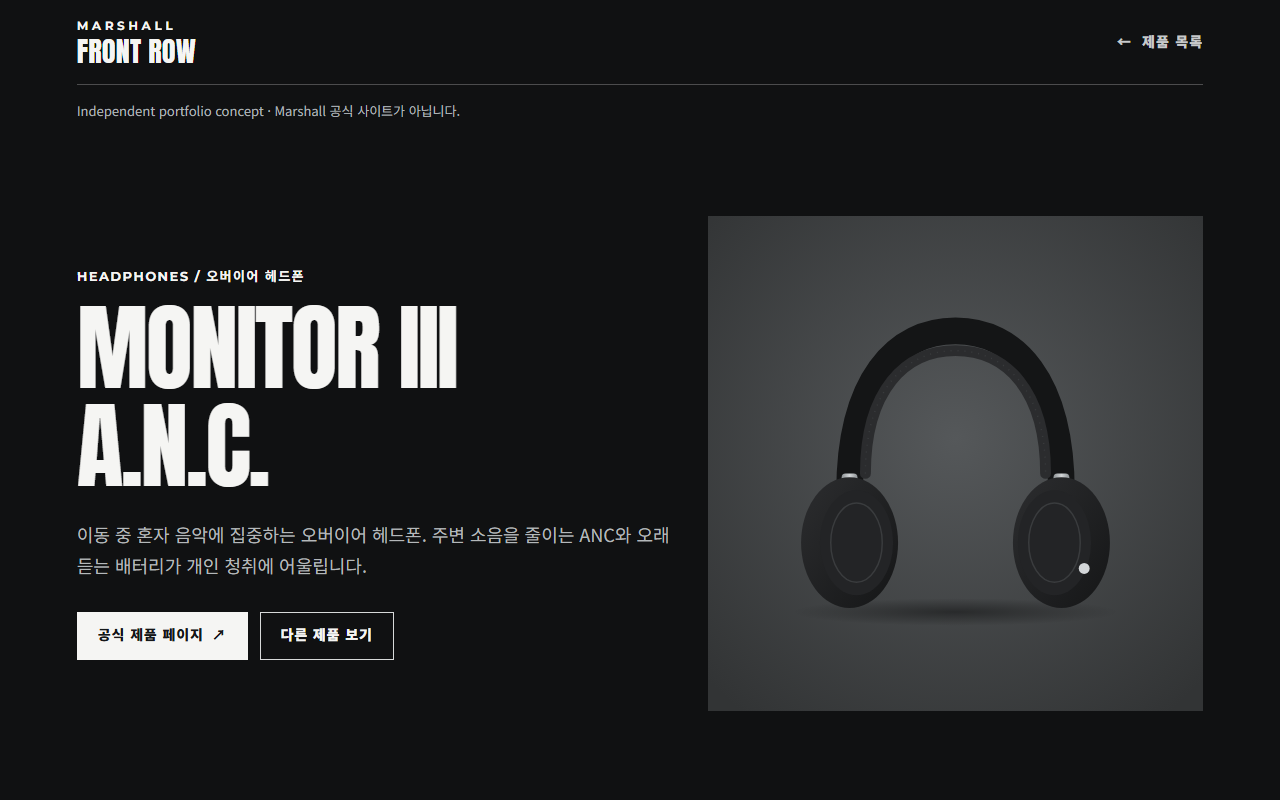
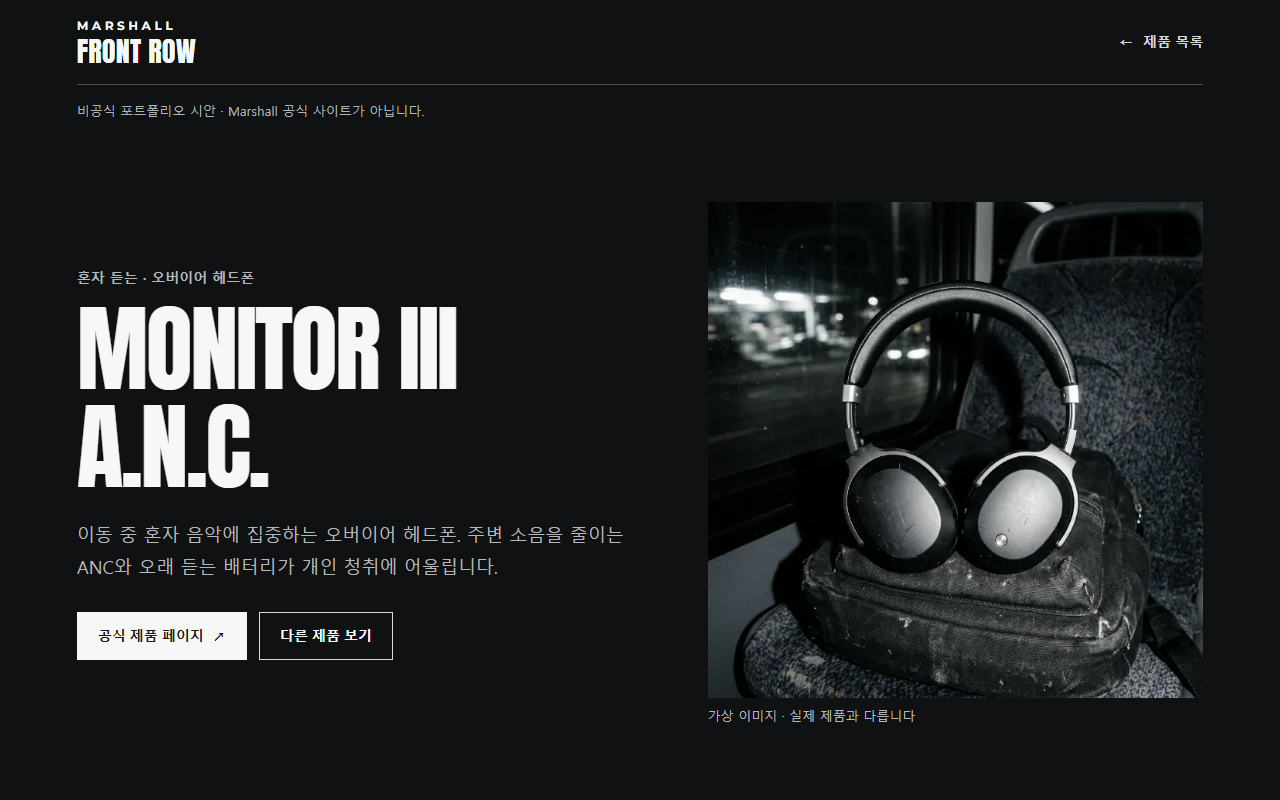
docs: retake the README screenshots after the redesign
The gear and detail screenshots still showed the light band and the old
drawings. All four are retaken from the live site at the same sizes, and
the alt text now describes the virtual photos.

diff --git a/README.md b/README.md
@@ -21,8 +21,8 @@ AI 코딩 도구 Claude Code와 함께 만들었습니다. 방향(Live Signal La
 | Case Study | 디자인 결정, 이미지·출처 정책, 검증 결과 |
 
 <p>
-  <img src="docs/screenshots/gear-desktop.png" alt="제품 영역: THE GEAR 제목 아래 DSL40 Combo 앰프 일러스트와 사양" width="49%">
-  <img src="docs/screenshots/detail-desktop.png" alt="Monitor III A.N.C. 상세 페이지: 제품명과 설명, 헤드폰 일러스트" width="49%">
+  <img src="docs/screenshots/gear-desktop.png" alt="제품 영역: THE GEAR 제목 아래 무대 위 앰프 가상 사진과 DSL40 Combo 소개" width="49%">
+  <img src="docs/screenshots/detail-desktop.png" alt="Monitor III A.N.C. 상세 페이지: 제품명과 설명, 가방 위 헤드폰 가상 사진" width="49%">
 </p>
 <p>
   <img src="docs/screenshots/home-mobile.png" alt="모바일 첫 화면: 텍스트 로고, LIVE / SMALL CLUB 라벨, FRONT ROW 제목, 앰프 살펴보기 버튼" width="260">

diff --git a/docs/CHANGELOG.md b/docs/CHANGELOG.md
@@ -3,6 +3,7 @@
 프로젝트의 주요 변경 사항을 기록합니다.
 
 ## 2026-11-06
+- README 스크린샷 네 장을 지금 화면으로 다시 찍고 대체 텍스트를 고침
 - 배포 뒤 라이브 재측정: 다섯 페이지 성능 98~100(페이지당 3회), 홈은 99 / 100 / 99. Case Study와 README의 "100 유지" 표현을 측정값에 맞춰 고침. 기록: [PERFORMANCE.md](PERFORMANCE.md)
 - Stories: 외부 링크 한 줄 소개였던 세 편에 공식 페이지 내용을 요약한 두세 문장을 넣음. 사실은 공식 페이지 원문에서 확인(확인일 2026-11-06, [CONTENT_SOURCES.md](CONTENT_SOURCES.md))
 - 앰프 상세: "실제 공간과 마이킹 여부를 고려하는 Marshall의 가이드"라는 문장을 고침. 2026-11-06 공식 페이지에 마이킹 내용이 없어 있는 내용으로 바꿈
